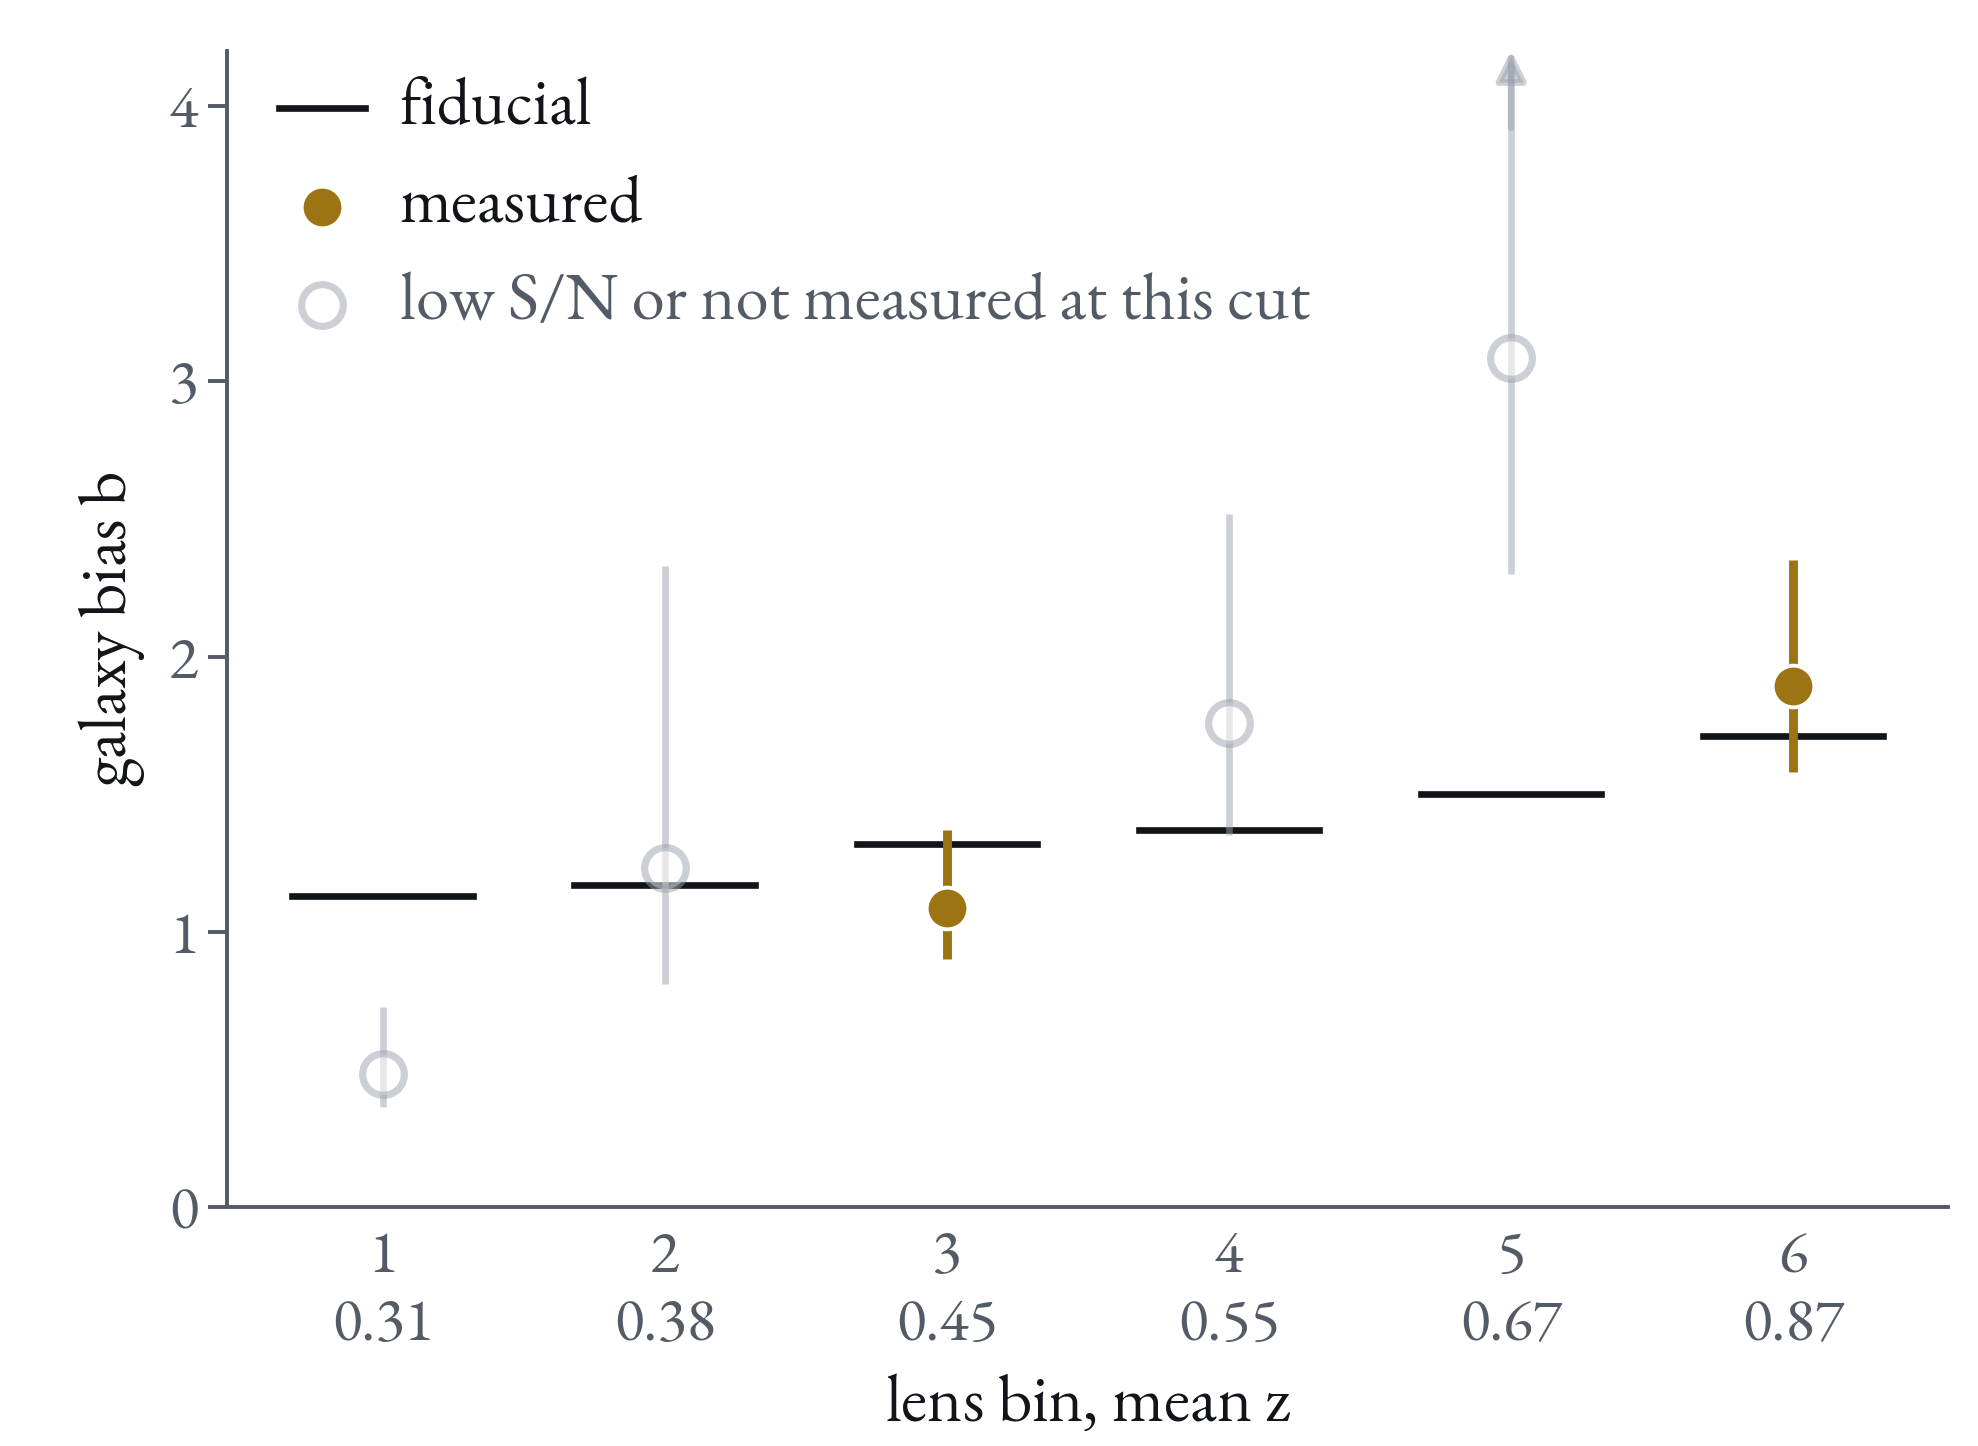
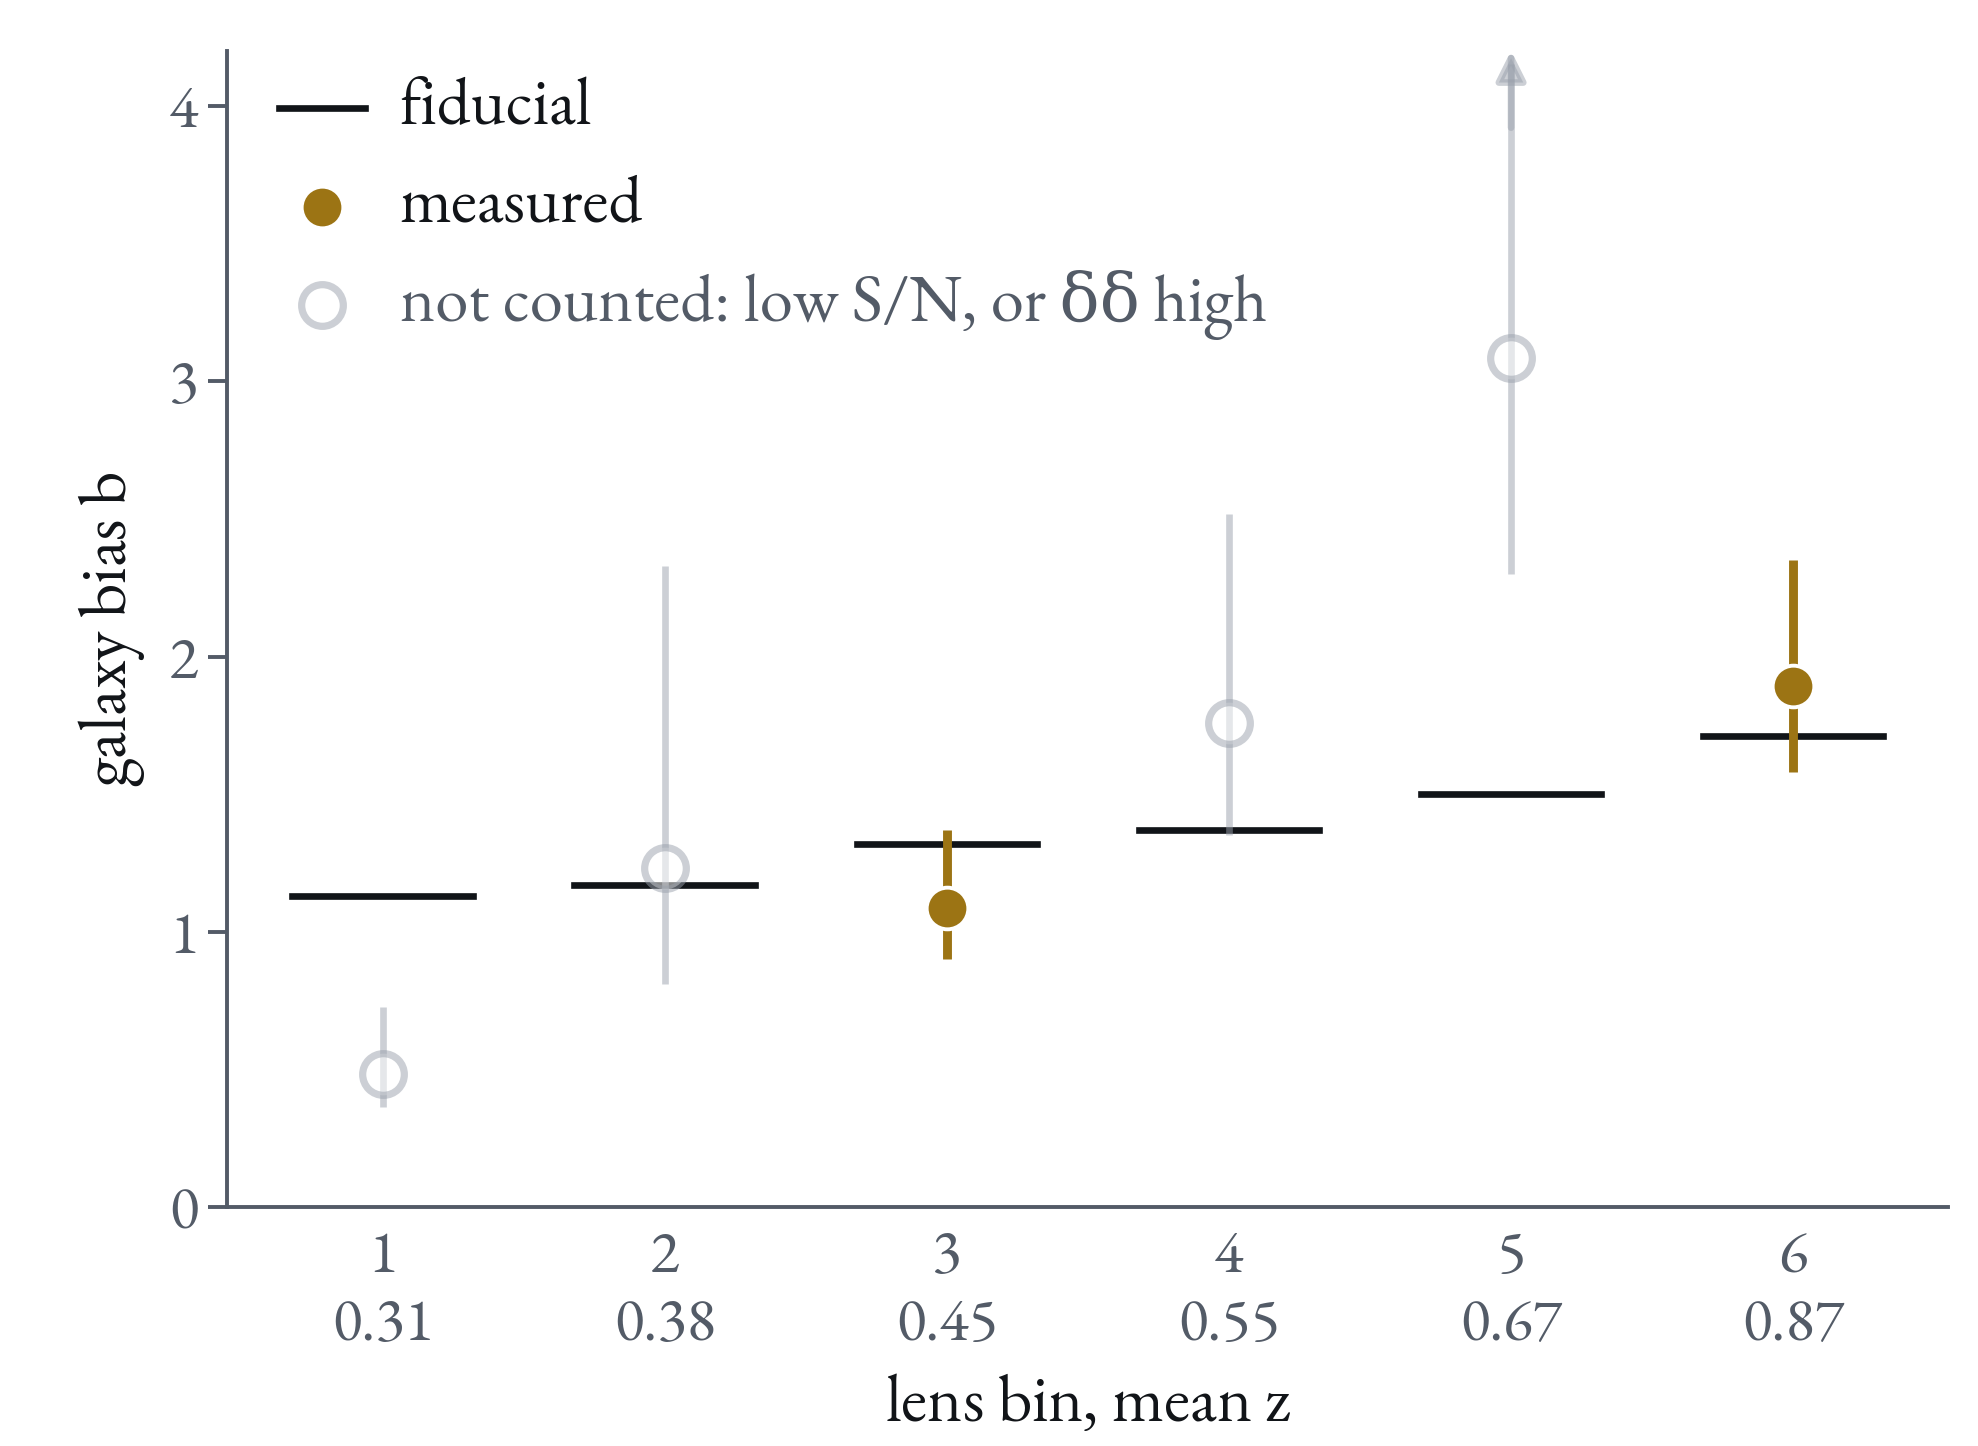
Napoli galaxy-bias: legend says why open bins are not counted
Claude-Session: https://claude.ai/code/session_01U5Xy7DodyfvJGDikeZfnnr

Changed region(s): [[0.185, 0.1867, 0.6476, 0.249]]

diff --git a/2610_Napoli_CMBX/make_crosses.py b/2610_Napoli_CMBX/make_crosses.py
@@ -291,7 +291,7 @@ def bias(a, R, variant):
     ax.text(0.10, y0 - dy, "measured", transform=ax.transAxes, fontsize=LABEL, color=INK, va="center")
     ax.plot([0.055], [y0 - 2 * dy], "o", transform=ax.transAxes, ms=15, mfc="white", mec=GREYED, mew=2.6,
             alpha=0.5)
-    ax.text(0.10, y0 - 2 * dy, "low S/N or not measured at this cut", transform=ax.transAxes,
+    ax.text(0.10, y0 - 2 * dy, "not counted: low S/N, or δδ high", transform=ax.transAxes,
             fontsize=LABEL, color=MUTED, va="center")
     out = os.path.join(IMG, name("napoli_galaxy_bias", variant))
     fig.savefig(out, dpi=DPI)
